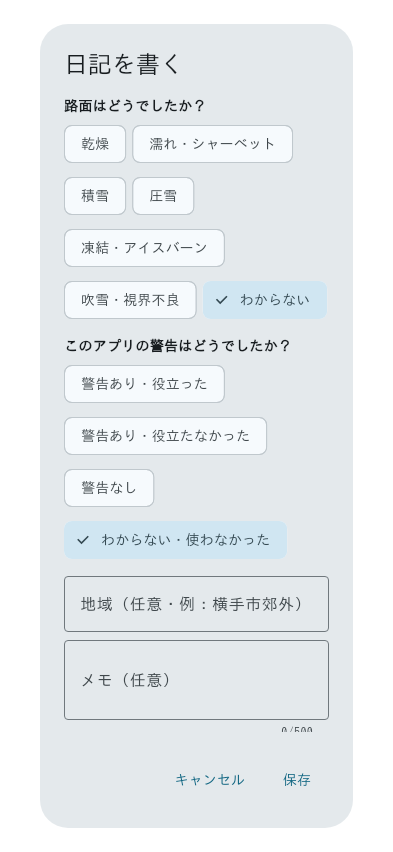
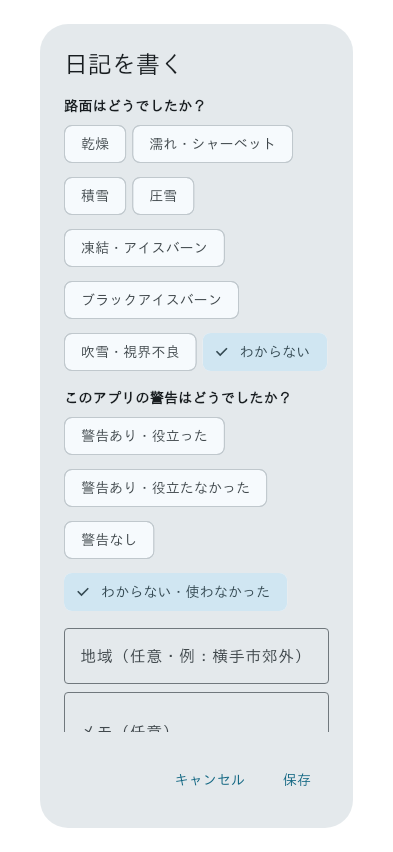
The diary can now name black ice, and its words come from the JAF vocabulary the pubspec said it already used
pubspec.yaml has declared japanese_snow_vocabulary DIRECT since 2026-08-23
"because lib/services/drive_diary.dart now imports it", and has cited a drift
guard at test/services/drive_diary_vocabulary_test.dart. On the line that ships
(aae536a) neither was true: 0 files in lib/ or test/ imported the package
(control: the same search finds 4 importers of condition_aggregator_jma), and
the guard did not exist. Both were written on 2026-08-10 and survived only as
uncommitted work, rescued twice into preservation snapshots (d266690, cf9a776).

This lands them. The test file is byte-identical to the preserved copy.
- 圧雪 is bound to the package's term and the drift guard pins it: if the
  catalog's word changes, her chip cannot silently keep the old one.
- A new chip, ブラックアイスバーン (token black-ice), the term the app's
  invisible-ice warning speaks. Before this she could not report the surface
  the app had just warned her about, so "the warning fired and the road only
  looked wet" and "the road was visibly frozen" were one entry.
- Tokens already written to a beta driver's device are unchanged; a test
  keeps them so.

The diary form capture is re-recorded and was looked at: the new chip adds a
row, and at 393x852 the note field now starts below the fold. The form
scrolls and the save button stays visible.

NOT IN THIS COMMIT, ON PURPOSE: JAF's advisory sentences. The package forbids
truncating them, and every full sentence carries instructions such as
[…]

diff --git a/test/services/drive_diary_vocabulary_test.dart b/test/services/drive_diary_vocabulary_test.dart
@@ -1,0 +1,138 @@
+/// DRIFT GUARD — HER diary chips are pinned to the catalog's canonical JP
+/// vocabulary, not to app-local translations-from-English.
+///
+/// WHY this file exists (measured 2026-08-10): `DiaryRoadCondition`'s ja
+/// labels were hand-authored inside the app while the unit already shipped
+/// `japanese_snow_vocabulary`, whose stated purpose is to prevent *"the
+/// silent erasure of finer-grained JA vocabulary by English-language
+/// collapse."* A hand-authored chip list is that erasure, one layer down: the
+/// enum cases are NAMED in English (dry/wet/snow/ice) with the ja as a
+/// translation afterthought. These tests make the binding mechanical, so a
+/// catalog vocabulary change can never leave HER chip reading a stale word
+/// while every other suite stays green.
+///
+/// This is a guard, not a style check: the word on the chip is the whole of
+/// what the season's evidence reader receives. If it drifts from the term
+/// the driver actually says, the entry stops being collatable against the
+/// vocabulary the rest of the stack speaks.
+library;
+
+import 'package:flutter_test/flutter_test.dart';
+import 'package:japanese_snow_vocabulary/japanese_snow_vocabulary.dart';
+import 'package:sngnav_app/services/drive_diary.dart';
+
+void main() {
+  group('diary vocabulary is sourced from the catalog, not the app', () {
+    test('every bound chip reads the package term VERBATIM', () {
+      final bound =
+          DiaryRoadCondition.values.where((c) => c.vocabulary != null);
+
+      // Guard the guard: if every binding were null this test would pass
+      // vacuously and protect nothing.
+      expect(bound, isNotEmpty,
+          reason: 'no chip is bound to the vocabulary package — the drift '
+              'guard would be vacuous');
+
+      for (final c in bound) {
+        final entry = jafAuthoritativeData[c.vocabulary];
+        expect(entry, isNotNull,
+            reason: '${c.name} names ${c.vocabulary} but the package has no '
+                'entry for it');
+        expect(
+          c.ja,
+          entry!.termJa,
+          reason: 'chip ${c.name} reads "${c.ja}" but the catalog term is '
+              '"${entry.termJa}" — HER chip has drifted from the vocabulary '
+              'the rest of the stack speaks',
+        );
+      }
+    });
+
+    test('ブラックアイスバーン is reportable — the flagship warning has a chip',
+        () {
+      // The app's most-hardened in-drive advisory speaks and draws
+      // 「ブラックアイスバーン」. Before 2026-08-10 the diary had no chip for it,
+      // so a driver could not report the surface the app had just warned her
+      // about, and the season's falsifier #2 ("did the warning match
+      // reality?") was unanswerable for that warning.
+      final blackIce = DiaryRoadCondition.values
+          .where((c) => c.vocabulary == JapaneseSnowSurfaceClass.blackIceBahn);
+
+      expect(blackIce, hasLength(1),
+          reason: 'exactly one chip must report black ice');
+      expect(blackIce.single.ja, 'ブラックアイスバーン');
+      expect(blackIce.single.token, 'black-ice');
+    });
+
+    test('black ice is DISTINCT from visible ice — the distinction that '
+        'decides a true positive', () {
+      // These two must never collapse back into one chip. 凍結・アイスバーン is
+      // ice she could SEE; black ice is defined by being invisible. Collapsing
+      // them makes "fired, road visibly frozen" and "fired, road looked merely
+      // wet" the same entry.
+      expect(DiaryRoadCondition.blackIce,
+          isNot(equals(DiaryRoadCondition.ice)));
+      expect(DiaryRoadCondition.blackIce.token,
+          isNot(equals(DiaryRoadCondition.ice.token)));
+      expect(DiaryRoadCondition.blackIce.ja,
+          isNot(equals(DiaryRoadCondition.ice.ja)));
+    });
+
+    test('a spanning chip still quotes the package terms it spans', () {
+      // `ice` deliberately spans 凍結 + アイスバーン (vocabulary == null, so the
+      // verbatim guard above skips it). It must still be built FROM the
+      // catalog's words rather than invented ones, or the span silently
+      // becomes a third vocabulary.
+      final frozen = jafAuthoritativeData[JapaneseSnowSurfaceClass.surfaceFrozen]!;
+      final iceBahn = jafAuthoritativeData[JapaneseSnowSurfaceClass.iceBahn]!;
+      expect(DiaryRoadCondition.ice.ja, contains(frozen.termJa));
+      expect(DiaryRoadCondition.ice.ja, contains(iceBahn.termJa));
+
+      final slush = jafAuthoritativeData[JapaneseSnowSurfaceClass.slush]!;
+      expect(DiaryRoadCondition.wet.ja, contains(slush.termJa));
+    });
+
+    test('tokens already on a beta driver device are never renamed', () {
+      // Entries written before 2026-08-10 carry these exact tokens. Renaming
+      // one silently orphans her existing testimony from the reader's
+      // collation. New distinctions arrive as NEW tokens only.
+      const shippedTokens = {
+        'dry',
+        'wet-slush',
+        'snow',
+        'compacted-snow',
+        'ice',
+        'whiteout',
+        'unknown',
+      };
+      final live = DiaryRoadCondition.values.map((c) => c.token).toSet();
+      expect(live.containsAll(shippedTokens), isTrue,
+          reason: 'a shipped token disappeared: '
+              '${shippedTokens.difference(live)} — entries already written to '
+              "a beta driver's device would no longer collate");
+    });
+
+    test('tokens are unique — two chips may never write the same token', () {
+      final tokens = DiaryRoadCondition.values.map((c) => c.token).toList();
+      expect(tokens.toSet(), hasLength(tokens.length));
+    });
+
+    test('the unanswered default is not an observation', () {
+      // 'わからない' must stay a distinct, non-taxonomy value: a driver who
+      // did not answer must never be recorded as having observed something.
+      expect(DiaryRoadCondition.unknown.vocabulary, isNull);
+      expect(DiaryRoadCondition.unknown.ja, 'わからない');
+    });
+  });
+
+  group('the new chip round-trips to the file she shares', () {
+    test('a black-ice entry records both the ja term and the stable token',
+        () {
+      // The reader cross-checks a dated entry against AMeDAS; both halves
+      // must survive to the file, or the entry is unreadable by one of the
+      // two audiences (a human reader / a collating script).
+      expect(DiaryRoadCondition.blackIce.ja, 'ブラックアイスバーン');
+      expect(DiaryRoadCondition.blackIce.token, 'black-ice');
+    });
+  });
+}

diff --git a/lib/services/drive_diary.dart b/lib/services/drive_diary.dart
@@ -35,6 +35,7 @@ library;
 import 'dart:convert' show utf8;
 import 'dart:io' show File, FileMode, Platform;
 
+import 'package:japanese_snow_vocabulary/japanese_snow_vocabulary.dart';
 import 'package:path_provider/path_provider.dart';
 import 'package:share_plus/share_plus.dart';
 
@@ -47,20 +48,78 @@ const String kDiaryEntryMarker = '--- sngnav diary ';
 /// What she saw on the road — human-observed, never sensor-fabricated.
 /// The file records the ja label plus a stable en token so a dated entry
 /// stays machine-collatable across app versions.
+///
+/// VOCABULARY SOURCE (2026-08-10): the ja labels are no longer app-local
+/// translations-from-English. Where a chip IS exactly one term of the
+/// catalog's `japanese_snow_vocabulary`, [vocabulary] names that term and a
+/// drift guard pins the label to the package's `termJa`
+/// (test/services/drive_diary_vocabulary_test.dart). Where a chip
+/// deliberately spans more than one package term (see [ice], [wet]) or has
+/// no package term at all (see [snow], [whiteout], [dry]), [vocabulary] is
+/// null and the reason is recorded on the case. That package exists to stop
+/// *"the silent erasure of finer-grained JA vocabulary by English-language
+/// collapse"* — which is exactly what a hand-authored chip list inside an
+/// app becomes as the app drifts.
+///
+/// TOKEN STABILITY IS LOAD-BEARING: entries already written to a beta
+/// driver's device carry these tokens. Existing tokens are never renamed or
+/// re-meaninged — new distinctions arrive as NEW cases, so a reader can
+/// always tell a pre-split entry from a post-split one.
 enum DiaryRoadCondition {
-  dry('乾燥', 'dry'),
-  wet('濡れ・シャーベット', 'wet-slush'),
-  snow('積雪', 'snow'),
+  // No package term: 乾燥 is the absence of the winter surface classes,
+  // not a member of the taxonomy.
+  dry('乾燥', 'dry', null),
+  // SPANS two package terms (シャーベット + plain wet). Deliberately not
+  // split: the season's load-bearing distinction is ice-that-looks-wet
+  // (see [blackIce]), and every extra chip costs a cold-handed elderly
+  // driver a target. If a reader later needs 濡れ and シャーベット apart,
+  // it arrives as a NEW case, never by re-meaning this token.
+  wet('濡れ・シャーベット', 'wet-slush', null),
+  // No package term: 積雪 (accumulated snow ON the surface) is a different
+  // word from the package's 雪道 (snow ROAD). The chip asks what the
+  // surface was, so 積雪 is the honest label and no 1:1 binding exists.
+  snow('積雪', 'snow', null),
   // 圧雪 sits between fresh snow and ice — the most common hazardous
   // surface on Akita/Niigata winter roads (adversarial domain review).
-  compacted('圧雪', 'compacted-snow'),
-  ice('凍結・アイスバーン', 'ice'),
-  whiteout('吹雪・視界不良', 'whiteout'),
-  unknown('わからない', 'unknown');
+  compacted('圧雪', 'compacted-snow', JapaneseSnowSurfaceClass.compactedSnow),
+  // SPANS 凍結 + アイスバーン: ice she could SEE. Kept as one chip because
+  // the distinction that decides the season is visible-vs-invisible, and
+  // that is [blackIce] below — not 凍結-vs-アイスバーン.
+  ice('凍結・アイスバーン', 'ice', null),
+  // ADDED 2026-08-10 — the gap that made the season's flagship warning
+  // unfalsifiable. The app's most-hardened in-drive advisory is the
+  // invisible-ice / radiative-cooling warning, spoken and drawn as
+  // 「ブラックアイスバーン」 (lib/services/invisible_ice_watch.dart,
+  // lib/voice/offline_safety_voice.dart, main.dart's caution card) — yet
+  // the diary offered her no way to report that surface. Her only
+  // neighbouring chip was 凍結・アイスバーン, which is ice she could SEE;
+  // black ice is DEFINED by being invisible ("一見すると濡れたアスファルト
+  // 路面のように黒く見えるのに、実は表面が凍りついている" — JAF, verbatim in
+  // the package). So "the warning fired and the road was visibly frozen"
+  // and "the warning fired and the road looked merely wet" collapsed into
+  // one entry, and the reader could not tell a TRUE POSITIVE from a
+  // near-miss. Falsifier #2 of the season turns on exactly that.
+  blackIce('ブラックアイスバーン', 'black-ice', JapaneseSnowSurfaceClass.blackIceBahn),
+  // No package term: 吹雪・視界不良 is a visibility state, not a surface.
+  whiteout('吹雪・視界不良', 'whiteout', null),
+  // Never a package term, and deliberately the default: an unanswered
+  // chip must read as "she did not say", never as an observation.
+  unknown('わからない', 'unknown', null);
 
-  const DiaryRoadCondition(this.ja, this.token);
+  const DiaryRoadCondition(this.ja, this.token, this.vocabulary);
+
+  /// The ja label she reads on the chip.
   final String ja;
+
+  /// Stable machine token written to the file. NEVER renamed (see enum doc).
   final String token;
+
+  /// The `japanese_snow_vocabulary` term this chip IS, when it is exactly
+  /// one. Null for spanning or non-taxonomy chips — see each case's note.
+  /// The drift guard asserts [ja] == the package's `termJa` for every
+  /// non-null binding, so a catalog vocabulary change can never leave HER
+  /// chip reading a stale word.
+  final JapaneseSnowSurfaceClass? vocabulary;
 }
 
 /// Whether the app's advisory fired and whether it helped — the season
